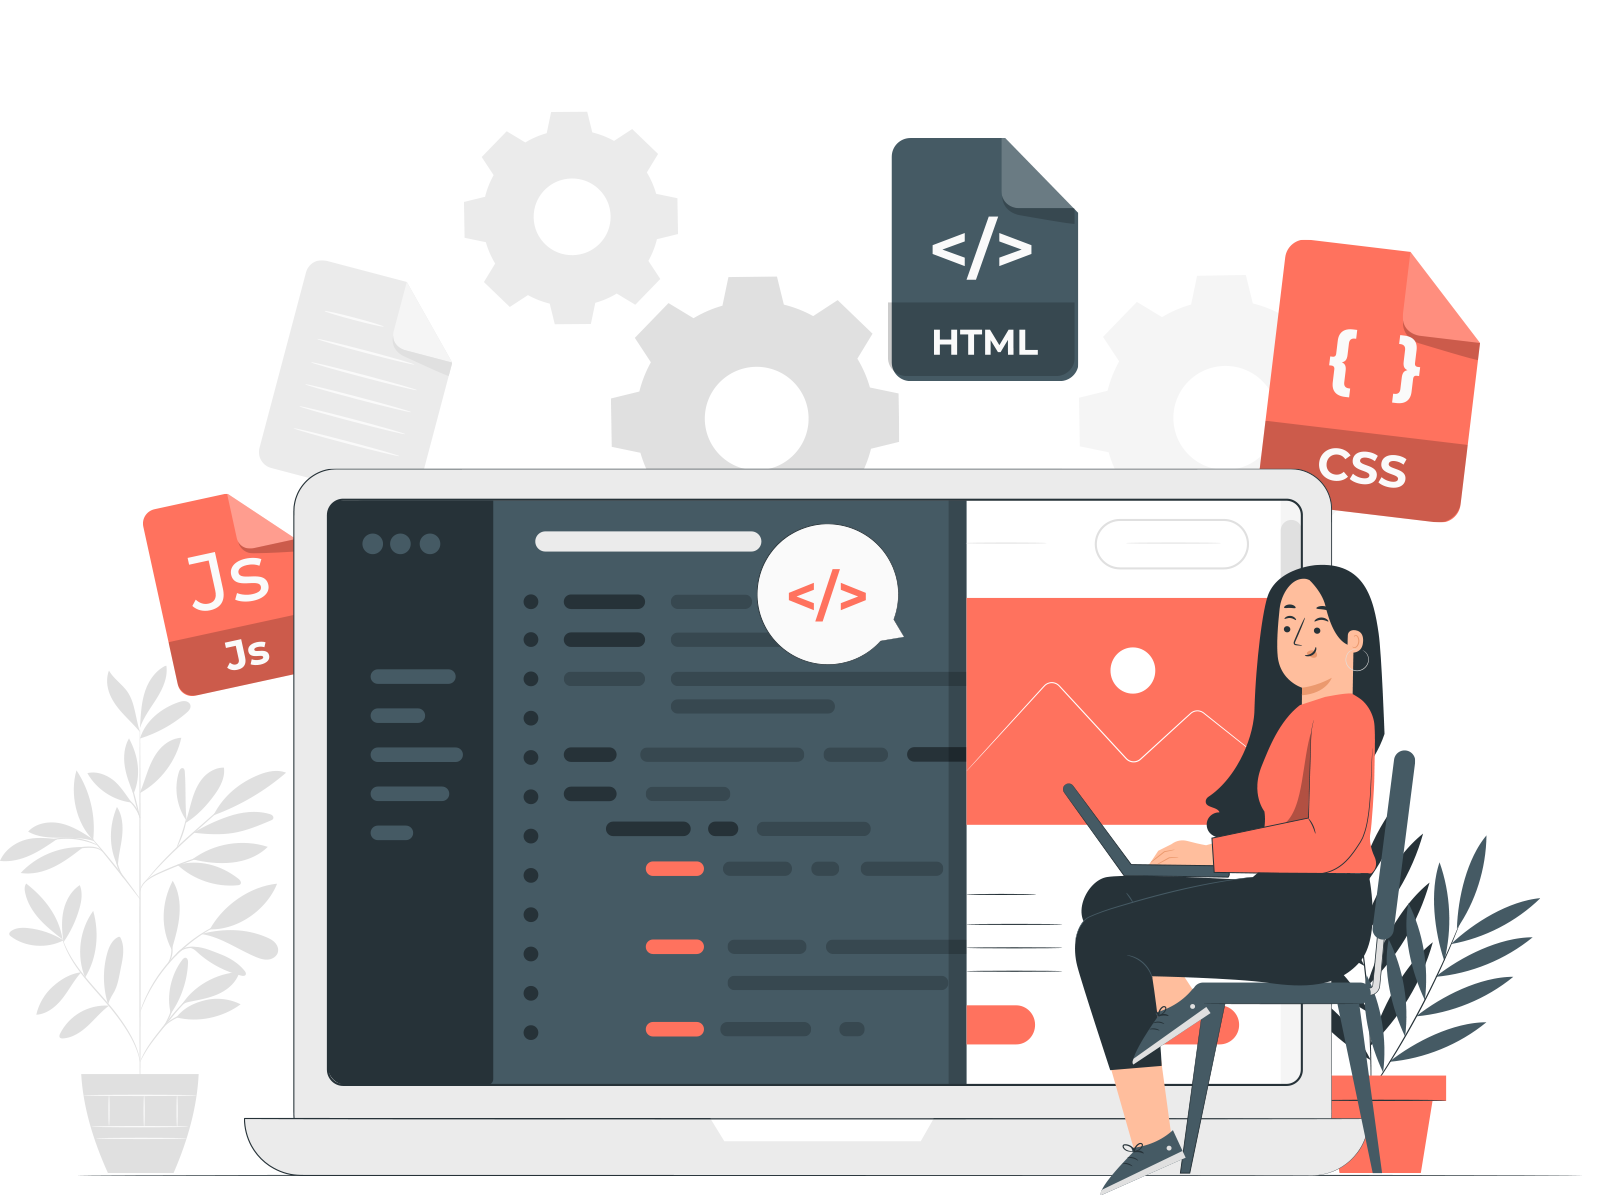
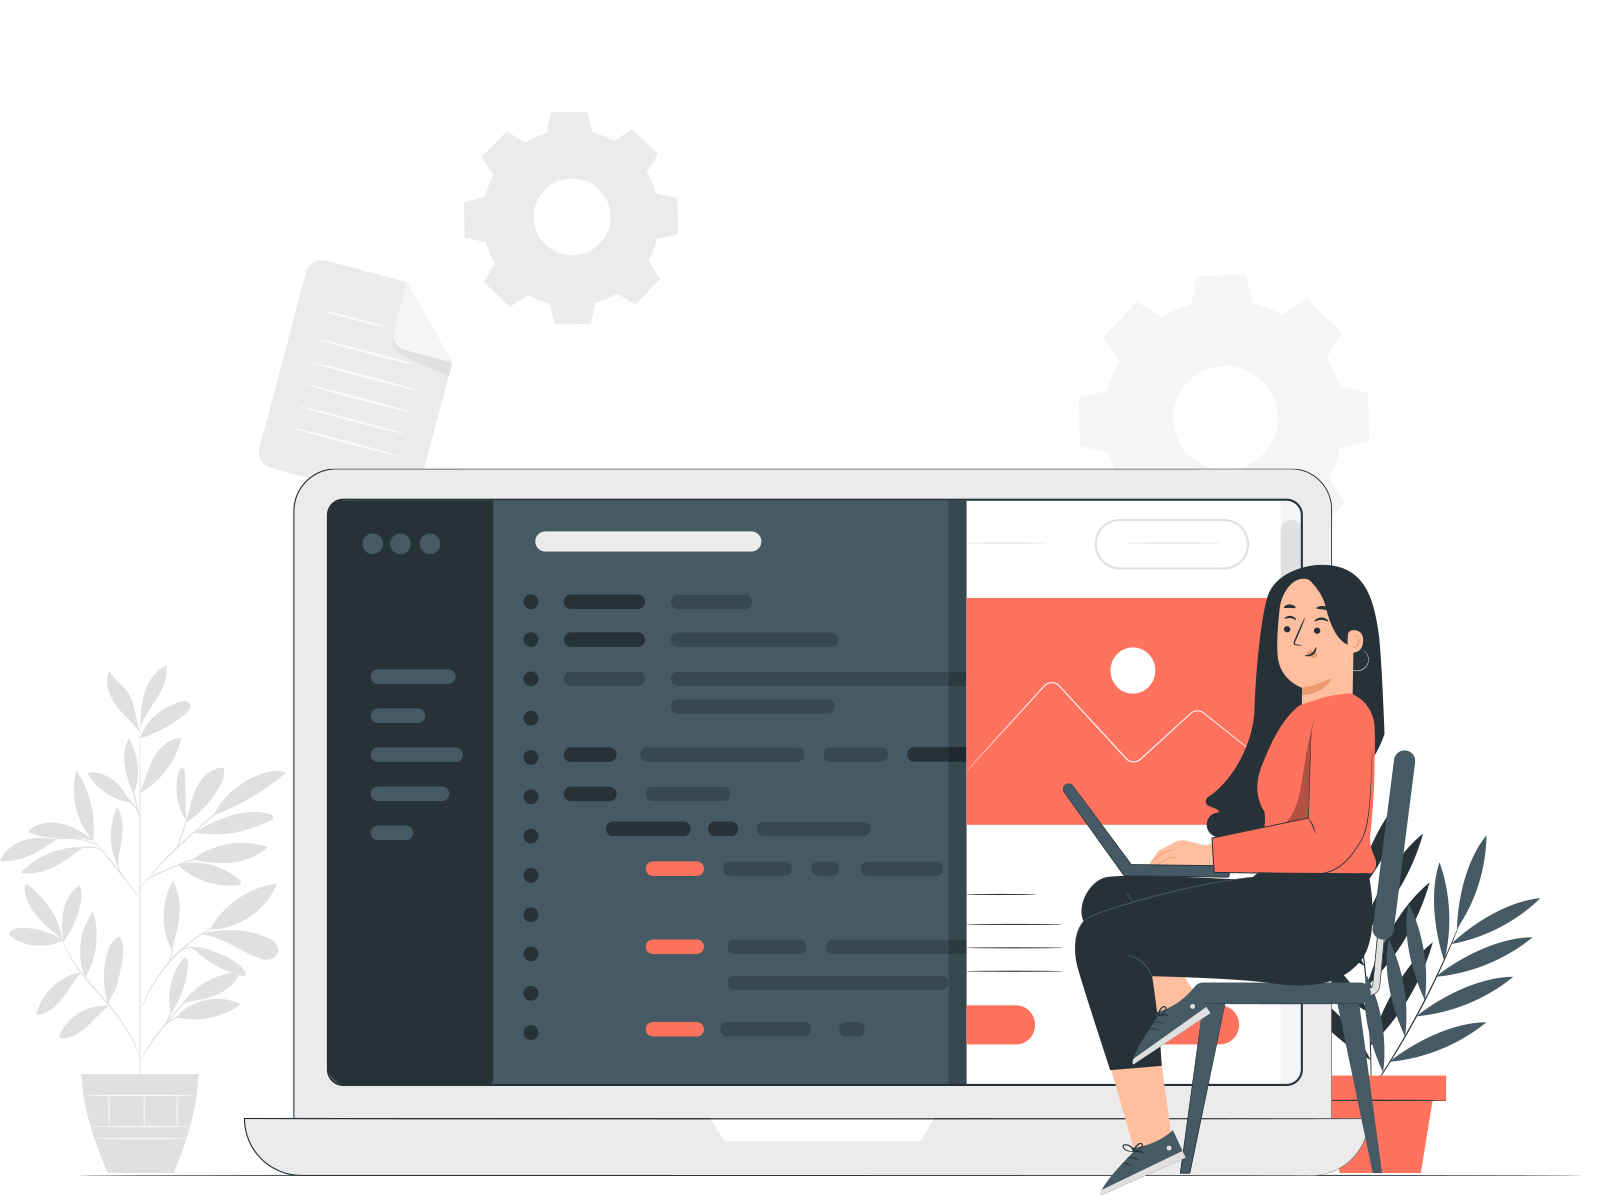
diseñando

diff --git a/index.html b/index.html
@@ -18,10 +18,10 @@
 			</div>
 			<div class="social-media">
 				<ul class="social-media__ul">
-					<li class="social-media__ul-li"><a href="" target="_blanck"><i class="fa-regular fa-envelope fa-flip"></i></a></li>
-					<li class="social-media__ul-li"><a href="" target="_blanck"><i class="fa-brands fa-whatsapp fa-flip"></i></a></li>
-					<li class="social-media__ul-li"><a href="https://www.instagram.com/florguayan/" target="_blanck"><i class="fa-brands fa-instagram fa-flip"></i></a></li>
-					<li class="social-media__ul-li"><a href="https://www.linkedin.com/in/florencia-guayan" target="_blanck"><i class="fa-brands fa-linkedin fa-flip"></i></a></li>
+					<li class="social-media__ul-li"><a href="" target="_blanck"><i class="fa-regular fa-envelope"></i></a></li>
+					<li class="social-media__ul-li"><a href="" target="_blanck"><i class="fa-brands fa-whatsapp"></i></a></li>
+					<li class="social-media__ul-li"><a href="https://www.instagram.com/florguayan/" target="_blanck"><i class="fa-brands fa-instagram"></i></a></li>
+					<li class="social-media__ul-li"><a href="https://www.linkedin.com/in/florencia-guayan" target="_blanck"><i class="fa-brands fa-linkedin"></i></a></li>
 					<li class="social-media__ul-li"><button class="btn-login">Login</button></li>
 				</ul>
 			</div>
@@ -48,20 +48,35 @@
 		<div class="document-js">
 			<img class="scale img-banner"src="document-js.png">
 		</div>
+		<div class="dialog">
+			<img class="scale img-banner"src="dialog.png">
+		</div>
+		<div class="mechanical-wheel">
+			<img class="rotate img-banner"src="mechanical-wheel.png">
+		</div>
+		<div class="forma-anaranjada">
+			<img class="img-banner"src="forma-anaranjada.png">
+		</div>
 	</div>
 	
 
 	<div class="bg-my-profile">
 		<div class="my-profile fit-profile">
 			<div class="my-profile__img">
-				<img src="florencia.jpg">
+				<img src="florencia.png">
+				
 			</div>
+
 			<div class="my-profile__title">
 				<h1>Florencia Guayán</h1>
 				<h2>Full Stack Developer Jr.</h2>
 					<i class="fa-solid fa-location-dot" style="margin-right: 5px"></i>Córdoba, Argentina
 			</div>
+
 		</div>
+
+
+		
 	</div>
 		
 

diff --git a/style.css b/style.css
@@ -30,6 +30,7 @@
     margin: auto;
 }
 .header__logo{
+	width: 15%;
 	height: 100%;
 	display: flex;
 	justify-content: center;
@@ -37,6 +38,8 @@
 }
 .header__logo img{
 	height: 100%;
+	width: 100%;
+	object-fit: cover;
 }
 .social-media{
 	position: relative;
@@ -93,6 +96,7 @@
 .banner__img{
 	width: 70%;
 	height: auto;
+	z-index: 60;
 }
 .document-css{
 	position: absolute;
@@ -114,6 +118,12 @@
     width: 7.6%;
     top: 40.85%;
     left: 21.35%;
+}
+.dialog{
+	position: absolute;
+    width: 6.5%;
+    top: 42.96%;
+    left: 48.07%;
 }
 .scale{
 	animation-name: scaledocument;
@@ -139,6 +149,29 @@
 		transform: scale(1);
 	}
 }
+.mechanical-wheel{
+	position: absolute;
+    width: 16.6%;
+    top: 24.85%;
+    left: 38.35%;
+    z-index: -20;
+}
+.rotate{
+	animation-name: rotate;
+	animation-duration: 6s;
+	animation-iteration-count: infinite;
+	animation-timing-function: ease;
+}
+
+@keyframes rotate{
+	0%{
+		transform: rotate(0deg);
+	}
+	100%{
+		transform: rotate(360deg);
+	}
+}
+
 .fit-profile{
 	max-width: 1200px;
 	margin: auto;
@@ -157,7 +190,7 @@
 	justify-content: flex-start;
 }
 .my-profile__img{
-	width: 15%;
+	width: 23%;
 	height: 15%;
 	margin-right: 30px;
 }
@@ -166,6 +199,13 @@
 	height: 100%;
 	object-fit: cover;
 	border-radius: 100%;
+}
+.forma-anaranjada{
+	position: absolute;
+    width: 42%;
+    top: 64%;
+    left: -11%;
+    z-index: -10;
 }
 .my-profile__title{
 	margin: auto 0;
